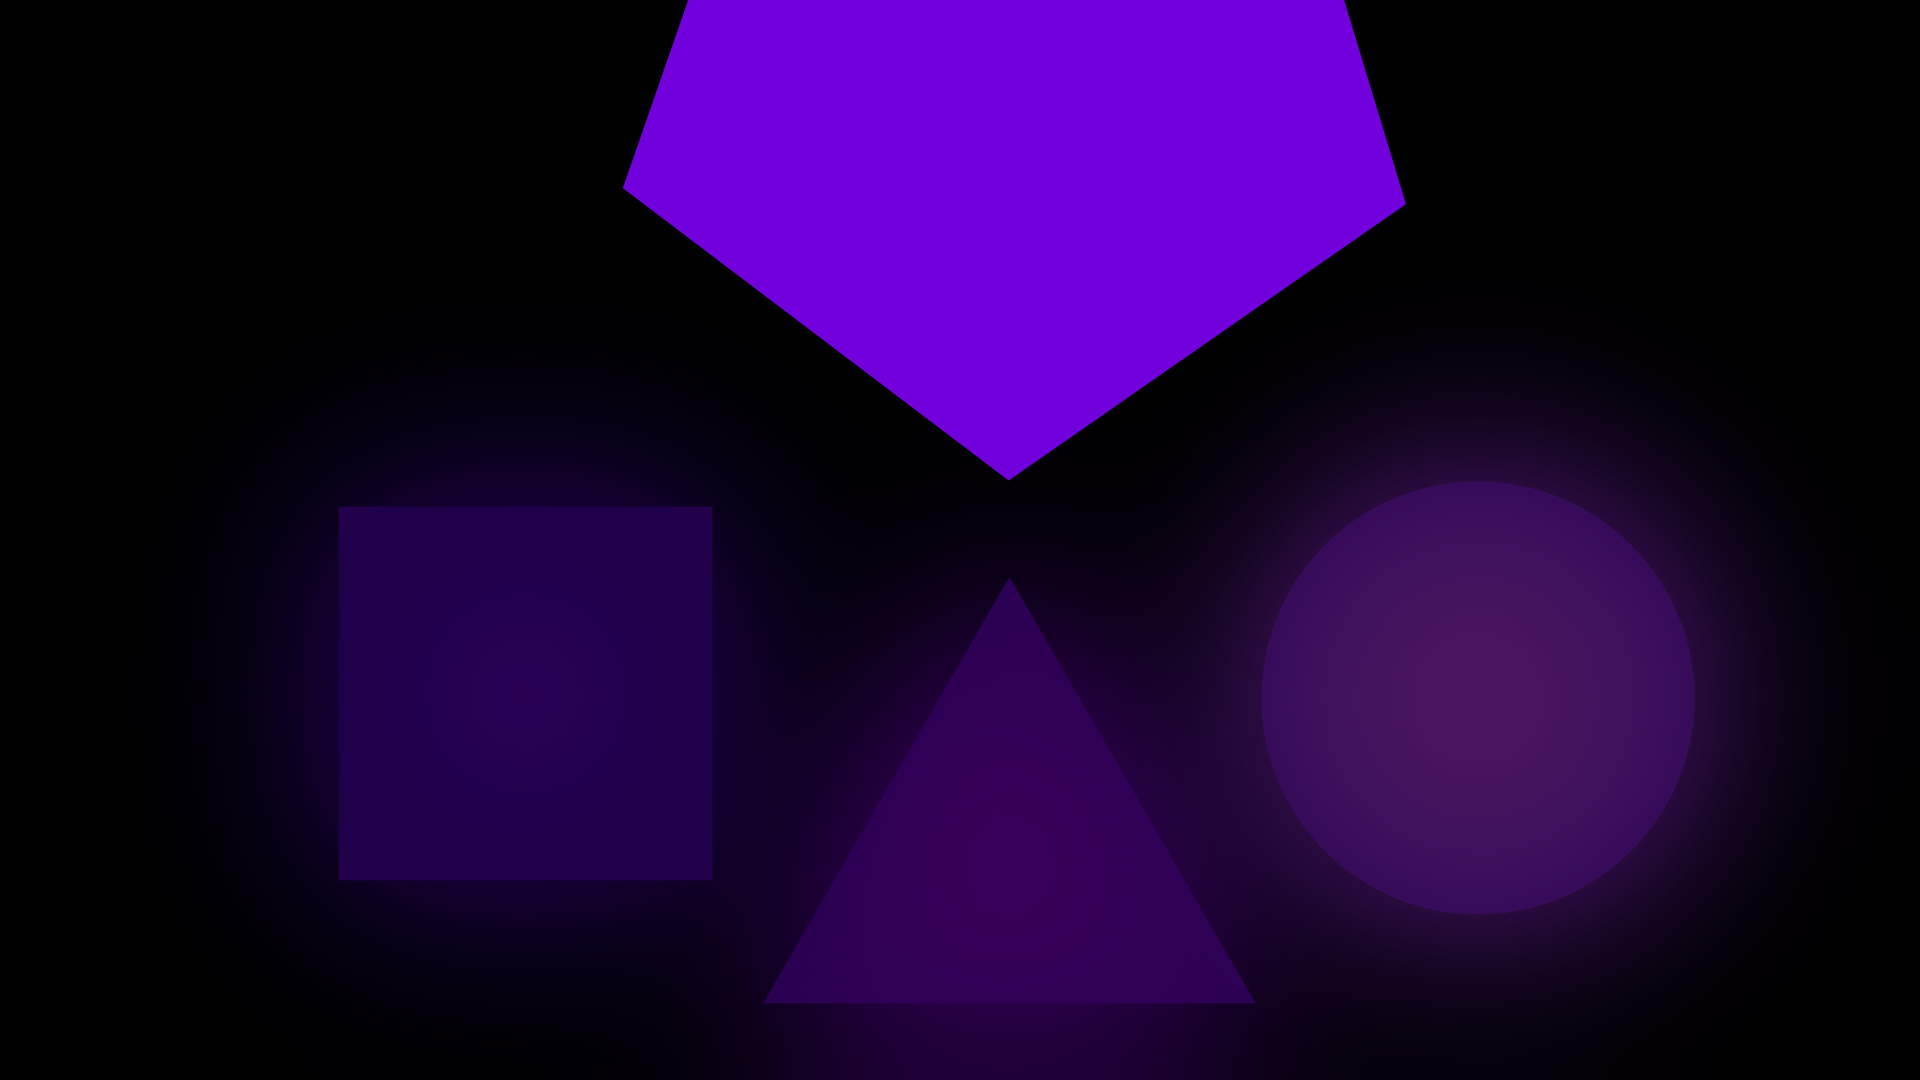
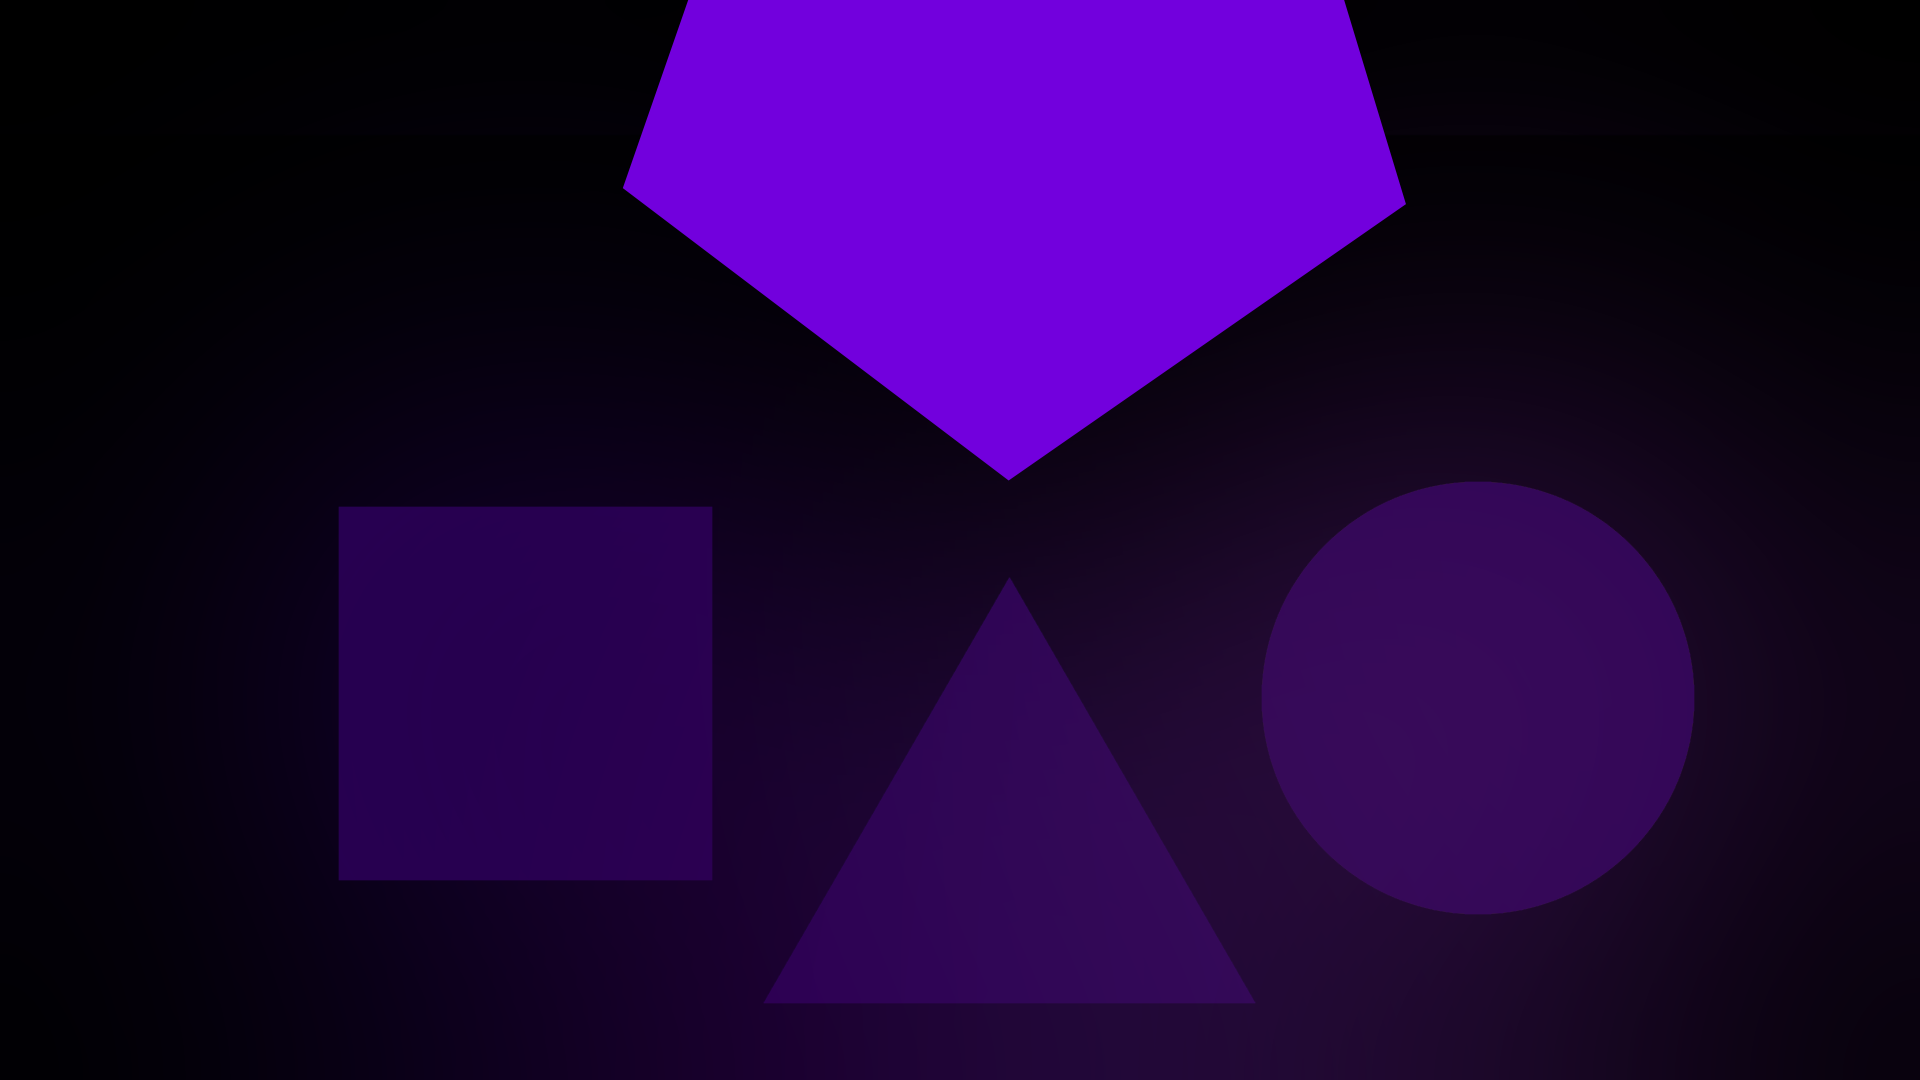
feat: sistema de IA finalizado para o Quadrado e Triângulo. Inimigos agora atacam por lados opostos e interagem com as portas fechadas. Limpeza de funções duplicadas no ai.js.

Changed region(s): [[0.625, 0.9167, 0.875, 1.0], [0.25, 0.9167, 0.4062, 1.0]]

diff --git a/Five_Nights_Geometry/js/ai.js b/Five_Nights_Geometry/js/ai.js
@@ -1,0 +1,84 @@
+// ==========================================
+// IA DO QUADRADO AZUL (Ataca pela Esquerda)
+// ==========================================
+
+let squarePosition = 1; // 1: Palco, 2: Corredor Esq, 3: Porta Esq, 4: Escritório (Morte)
+let squareAiLevel = 5;  // Nível de agressividade (de 1 a 20)
+let squareInterval;     // O cronômetro que faz ele pensar
+
+function updateSquareAI() {
+    let rng = Math.floor(Math.random() * 20) + 1;
+    
+    if (rng <= squareAiLevel) {
+        console.log("Quadrado se moveu! (RNG: " + rng + ")");
+        
+        if (squarePosition === 1) {
+            squarePosition = 2; 
+            console.log("Quadrado está no Corredor Esquerdo (CAM 2)");
+        } 
+        else if (squarePosition === 2) {
+            squarePosition = 3; 
+            console.log("Quadrado está na PORTA ESQUERDA!");
+        } 
+        else if (squarePosition === 3) {
+            if (isLeftDoorClosed === true) {
+                squarePosition = 1; 
+                console.log("BAM! Quadrado bateu na porta e voltou pro palco.");
+            } else {
+                squarePosition = 4;
+                triggerJumpscare("QUADRADO AZUL");
+            }
+        }
+    } else {
+        console.log("Quadrado ficou parado. (RNG: " + rng + ")");
+    }
+}
+
+// ==========================================
+// IA DO TRIANGULO VERMELHO (Ataca pela Direita)
+// ==========================================
+
+let trianglePosition = 1; // 1: Palco, 2: Corredor Dir, 3: Porta Dir, 4: Escritório (Morte)
+let triangleAiLevel = 5;  // Nível de agressividade (de 1 a 20)
+let triangleInterval;     // O cronômetro que faz ele pensar
+
+function updateTriangleAI() {
+    let rng = Math.floor(Math.random() * 20) + 1;
+    
+    if (rng <= triangleAiLevel) {
+        console.log("Triangulo se moveu! (RNG: " + rng + ")");
+        
+        if (trianglePosition === 1) {
+            trianglePosition = 2; 
+            console.log("Triangulo está no Corredor Direito (CAM 3)");
+        } 
+        else if (trianglePosition === 2) {
+            trianglePosition = 3; 
+            console.log("Triangulo está na PORTA DIREITA!");
+        } 
+        else if (trianglePosition === 3) {
+            if (isRightDoorClosed === true) {
+                trianglePosition = 1; 
+                console.log("BAM! Triangulo bateu na porta e voltou pro palco.");
+            } else {
+                trianglePosition = 4;
+                triggerJumpscare("TRIANGULO VERMELHO");
+            }
+        }
+    } else {
+        console.log("Triangulo ficou parado. (RNG: " + rng + ")");
+    }
+}
+
+// ==========================================
+// FUNÇÕES GERAIS E OUTRAS IAs
+// ==========================================
+
+function triggerJumpscare(monstro) {
+    console.error("JUMPSCARE: O " + monstro + " TE PEGOU!");
+    alert("JUMPSCARE! O " + monstro + " entrou no escritório!");
+}
+
+// ==========================================
+// IA DO CIRCULO AMARELO (Em construção)
+// ==========================================

diff --git a/Five_Nights_Geometry/js/game.js b/Five_Nights_Geometry/js/game.js
@@ -4,15 +4,58 @@ let power = 100;
 let clockInterval;
 let powerInterval;
 
+
 // Capturando os elementos da tela
 const clockDisplay = document.getElementById('clock');
 const powerDisplay = document.getElementById('power');
+
+// --- SISTEMA DE PORTAS ---
+const doorLeft = document.getElementById('door-left');
+const doorRight = document.getElementById('door-right');
+const btnDoorLeft = document.getElementById('btn-door-left');
+const btnDoorRight = document.getElementById('btn-door-right');
+
+let isLeftDoorClosed = false;
+let isRightDoorClosed = false;
+
+// Botão da Porta Esquerda
+btnDoorLeft.addEventListener('click', () => {
+    isLeftDoorClosed = !isLeftDoorClosed; // Inverte o estado
+    
+    if (isLeftDoorClosed) {
+        doorLeft.classList.add('closed');
+        doorLeft.innerText = "FECHADA";
+        btnDoorLeft.classList.add('active');
+    } else {
+        doorLeft.classList.remove('closed');
+        doorLeft.innerText = "PORTA ABERTA";
+        btnDoorLeft.classList.remove('active');
+    }
+});
+
+// Botão da Porta Direita
+btnDoorRight.addEventListener('click', () => {
+    isRightDoorClosed = !isRightDoorClosed;
+    
+    if (isRightDoorClosed) {
+        doorRight.classList.add('closed');
+        doorRight.innerText = "FECHADA";
+        btnDoorRight.classList.add('active');
+    } else {
+        doorRight.classList.remove('closed');
+        doorRight.innerText = "PORTA ABERTA";
+        btnDoorRight.classList.remove('active');
+    }
+});
 
 // Função que inicia a noite
 function startNoite() {
     hour = 0;
     power = 100;
     updateDisplays();
+
+    squareInterval = setInterval(updateSquareAI, 4000);
+    triangleInterval = setInterval(updateTriangleAI, 7000);
 
     // Loop do Relógio: Passa 1 hora a cada 5 segundos (para teste)
     clockInterval = setInterval(() => {
@@ -24,13 +67,23 @@ function startNoite() {
         }
     }, 5000); 
 
-    // Loop da Bateria: Drena 1% de energia a cada 1 segundo
     powerInterval = setInterval(() => {
         if (power > 0) {
-            power--;
+            let drainAmount = 1; 
+            
+            // Cada porta fechada gasta +1
+            if (isLeftDoorClosed) drainAmount += 1;
+            if (isRightDoorClosed) drainAmount += 1;
+            
+            // Se o tablet das câmeras estiver aberto, gasta +1 (se já tiver implementado)
+            // if (isCameraOpen) drainAmount += 1;
+
+            power -= drainAmount;
+            
+            if(power < 0) power = 0; 
             updateDisplays();
         } else {
-            runOutPower();
+            runOutPower(); // Acabou a energia!
         }
     }, 1000);
 }

diff --git a/Five_Nights_Geometry/js/main.js b/Five_Nights_Geometry/js/main.js
@@ -14,9 +14,45 @@ function startGame() {
     gameScreen.classList.add('active');
     
     console.log("Noite 1 iniciada...");
-    
+
     startNoite();
 }
 
 // Evento de clique no botão
 btnNewGame.addEventListener('click', startGame);
+
+// Capturando a tela do menu (caso ainda não tenha no seu código)
+// const menuScreen = document.getElementById('menu-screen'); // Se já existir lá em cima, não precisa copiar esta linha de novo
+
+// PASSO 1: A FUNÇÃO DA TRANSIÇÃO VISUAL
+// Isso aqui faz a tela piscar para o roxo e voltar rápido
+function triggerGlitch() {
+    // Adiciona a classe que mostra a imagem corrompida
+    menuScreen.classList.add('glitched');
+    
+    // Espera 200 milissegundos (um piscar de olhos) e remove a classe, voltando ao normal
+    setTimeout(() => {
+        menuScreen.classList.remove('glitched');
+    }, 400);
+}
+
+// PASSO 2: O GERADOR DE NÚMEROS (RNG)
+// Isso aqui vai ficar rodando de fundo enquanto o jogador estiver no menu
+function startMenuRNG() {
+    // Cria um loop que roda a cada 5 segundos (5000 milissegundos)
+    setInterval(() => {
+        // Gera um número aleatório de 1 até 15
+        let rng = Math.floor(Math.random() * 15) + 1;
+        
+        // (Opcional) Mostra no console o número sorteado pra você ver funcionando
+        console.log("Número sorteado pro Glitch: " + rng);
+
+        // Se o número for maior que 10 (ou seja: 11, 12, 13, 14 ou 15), ativa o glitch!
+        if (rng > 10) {
+            triggerGlitch();
+        }
+    }, 5000);
+}
+
+// PASSO 3: LIGAR O MOTOR ASSIM QUE O JOGO ABRIR
+startMenuRNG();

diff --git a/Five_Nights_Geometry/index.html b/Five_Nights_Geometry/index.html
@@ -12,6 +12,7 @@
 
     <!-- TELA DE MENU -->
     <div id="menu-screen" class="screen active">
+        <div class="static-overlay"></div>
         <h1 class="game-title">Five Nights at<br>Geometry</h1>
         <div class="menu-options">
             <button id="btn-new-game" class="menu-btn">New Game</button>
@@ -25,9 +26,23 @@
         
         <!-- O ambiente físico do escritório (Mesa, portas) -->
         <div id="office-layout">
-            <div class="door-placeholder left">Porta Esq.</div>
+            
+            <div class="door-station">
+                <div id="door-left" class="door-placeholder">PORTA ABERTA</div>
+                <div class="controls">
+                    <button id="btn-door-left" class="office-btn">FECHAR PORTA</button>
+                    </div>
+            </div>
+
             <div class="desk-placeholder">MESA DO GUARDA</div>
-            <div class="door-placeholder right">Porta Dir.</div>
+
+            <div class="door-station">
+                <div id="door-right" class="door-placeholder">PORTA ABERTA</div>
+                <div class="controls">
+                    <button id="btn-door-right" class="office-btn">FECHAR PORTA</button>
+                </div>
+            </div>
+
         </div>
 
         <!-- A interface de usuário (UI) que fica por cima de tudo -->
@@ -59,6 +74,7 @@
         </div>
     </div>
     
+    <script src="js/ai.js"></script>
     <script src="js/game.js"></script>
     <script src="js/main.js"></script>
     <script src="js/menu.js"></script>

diff --git a/Five_Nights_Geometry/css/game.css b/Five_Nights_Geometry/css/game.css
@@ -168,3 +168,46 @@
 .cam-btn[data-cam="2"] { top: 100px; left: 50px; }
 .cam-btn[data-cam="3"] { top: 100px; right: 50px; }
 .cam-btn[data-cam="4"] { bottom: 40px; left: 120px; }
+
+/* Estação da Porta (Agrupa a porta e os botões) */
+.door-station {
+    display: flex;
+    flex-direction: column;
+    align-items: center;
+    gap: 15px;
+}
+
+/* Moldes das portas */
+.door-placeholder {
+    width: 150px;
+    height: 50vh;
+    border: 3px dashed #ffffff; /* Porta aberta (Tracejado) */
+    display: flex;
+    align-items: center;
+    justify-content: center;
+    color: #fff;
+    font-size: 1.2rem;
+    background-color: transparent;
+    transition: all 0.2s ease;
+}
+
+/* Estado da porta FECHADA */
+.door-placeholder.closed {
+    border: 3px solid #ff0000; /* Borda sólida vermelha */
+    background-color: #330000; /* Fundo preenchido */
+    color: #ff0000;
+}
+
+/* Botões do Escritório */
+.office-btn {
+    padding: 10px;
+    background-color: #111;
+    color: #fff;
+    border: 2px solid #fff;
+    cursor: pointer;
+    font-family: inherit;
+    font-weight: bold;
+}
+
+.office-btn:hover { background-color: #333; }
+.office-btn.active { background-color: #fff; color: #000; }

diff --git a/Five_Nights_Geometry/css/menu.css b/Five_Nights_Geometry/css/menu.css
@@ -78,3 +78,15 @@
         text-shadow: none;
     }
 }
+
+.static-overlay {
+    position: absolute;
+    top: 0;
+    left: 0;
+    width: 100%;
+    height: 100%;
+    background-image: url('https://media1.tenor.com/m/T9lxlTwR_JIAAAAC/tv-static.gif'); /* GIF provisório da internet */
+    opacity: 0.05; /* Bem fraquinho só para dar o clima */
+    pointer-events: none; /* Faz o clique do mouse "atravessar" a estática */
+    z-index: 100; /* Garante que fica por cima de tudo */
+}
